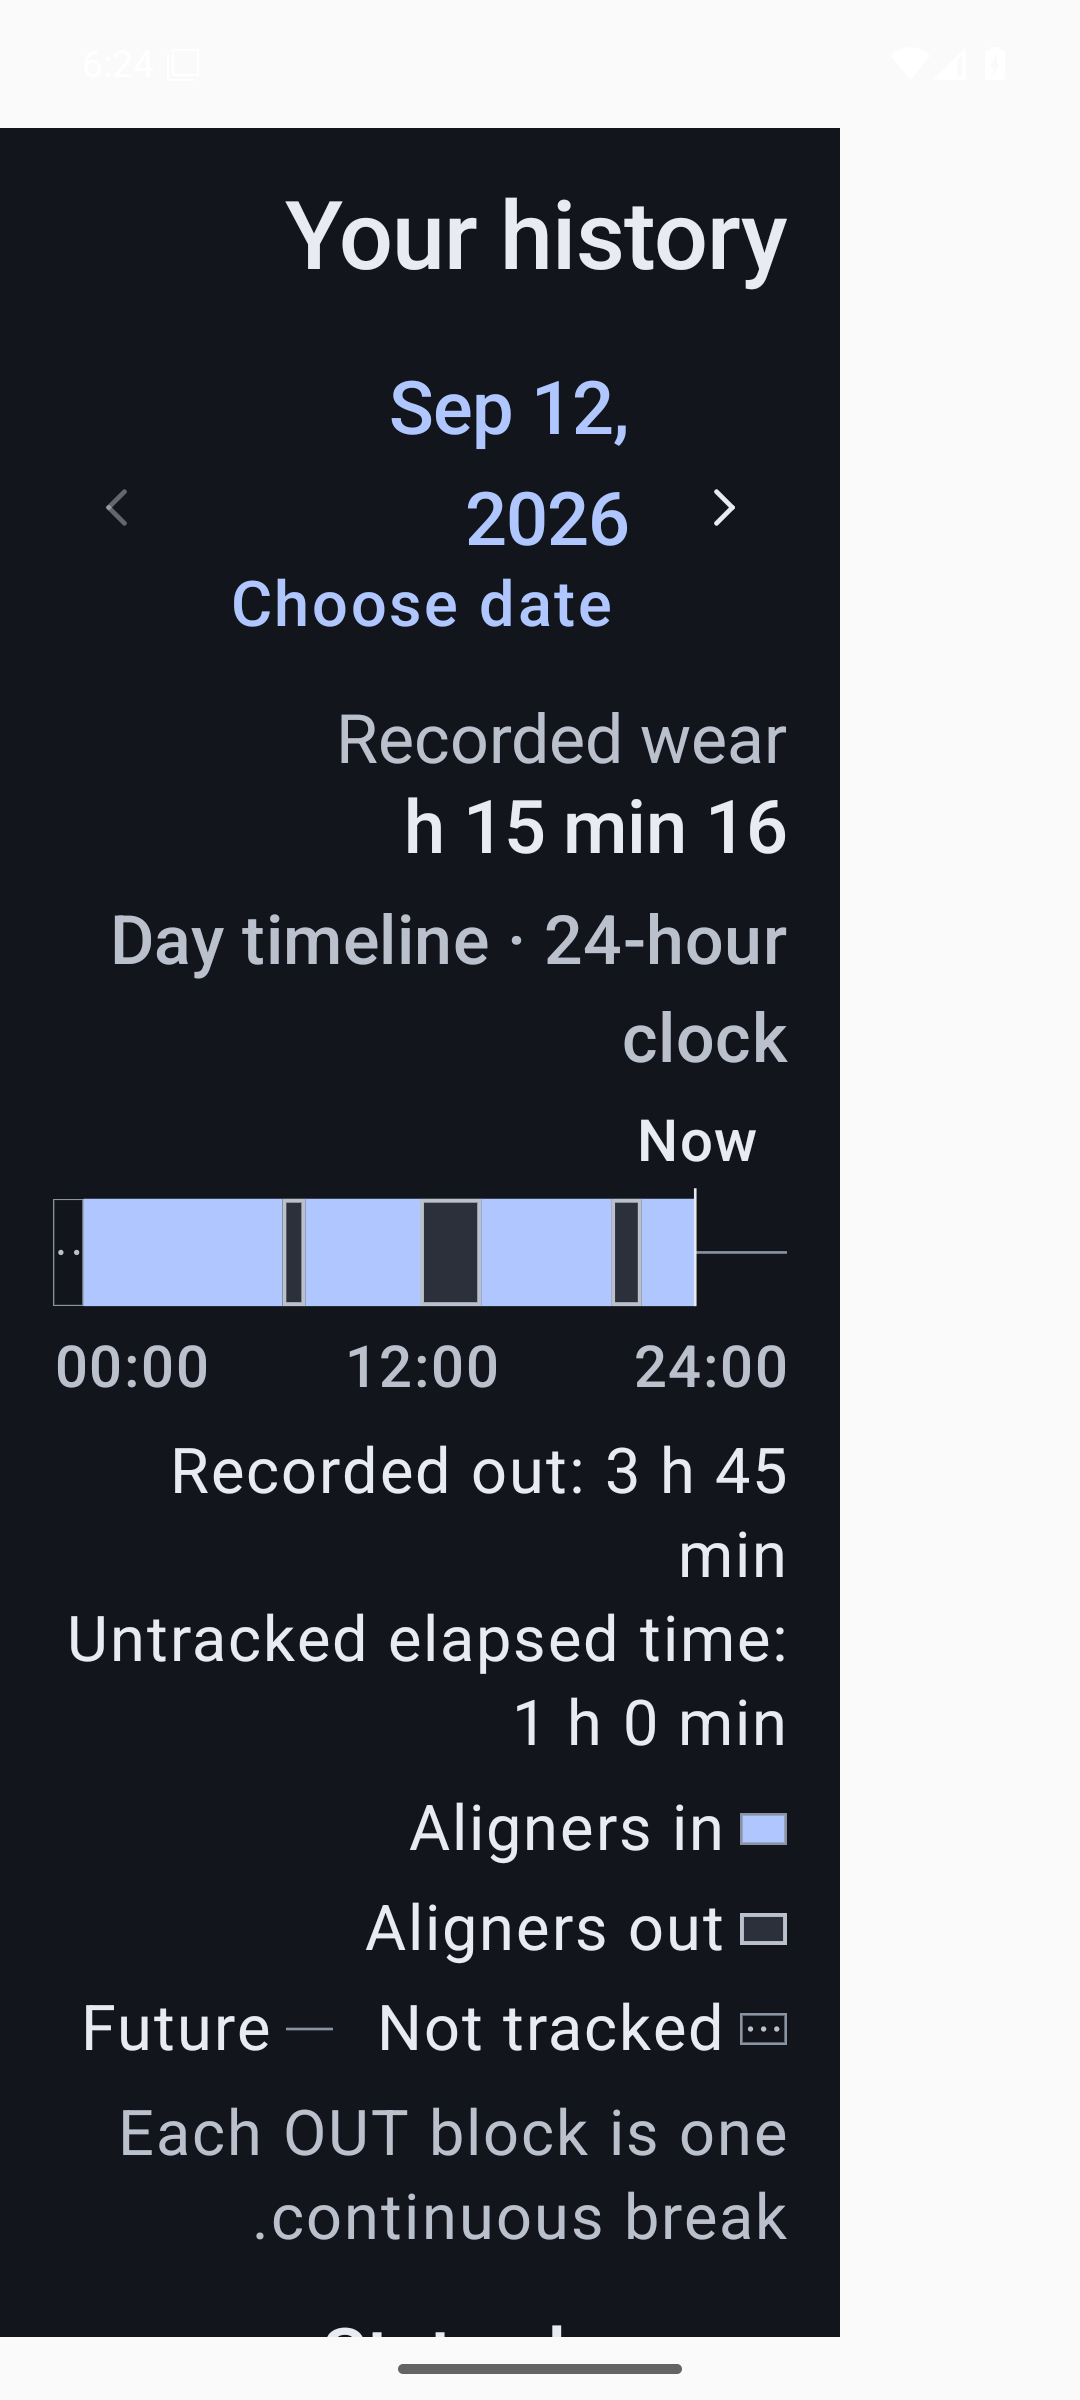
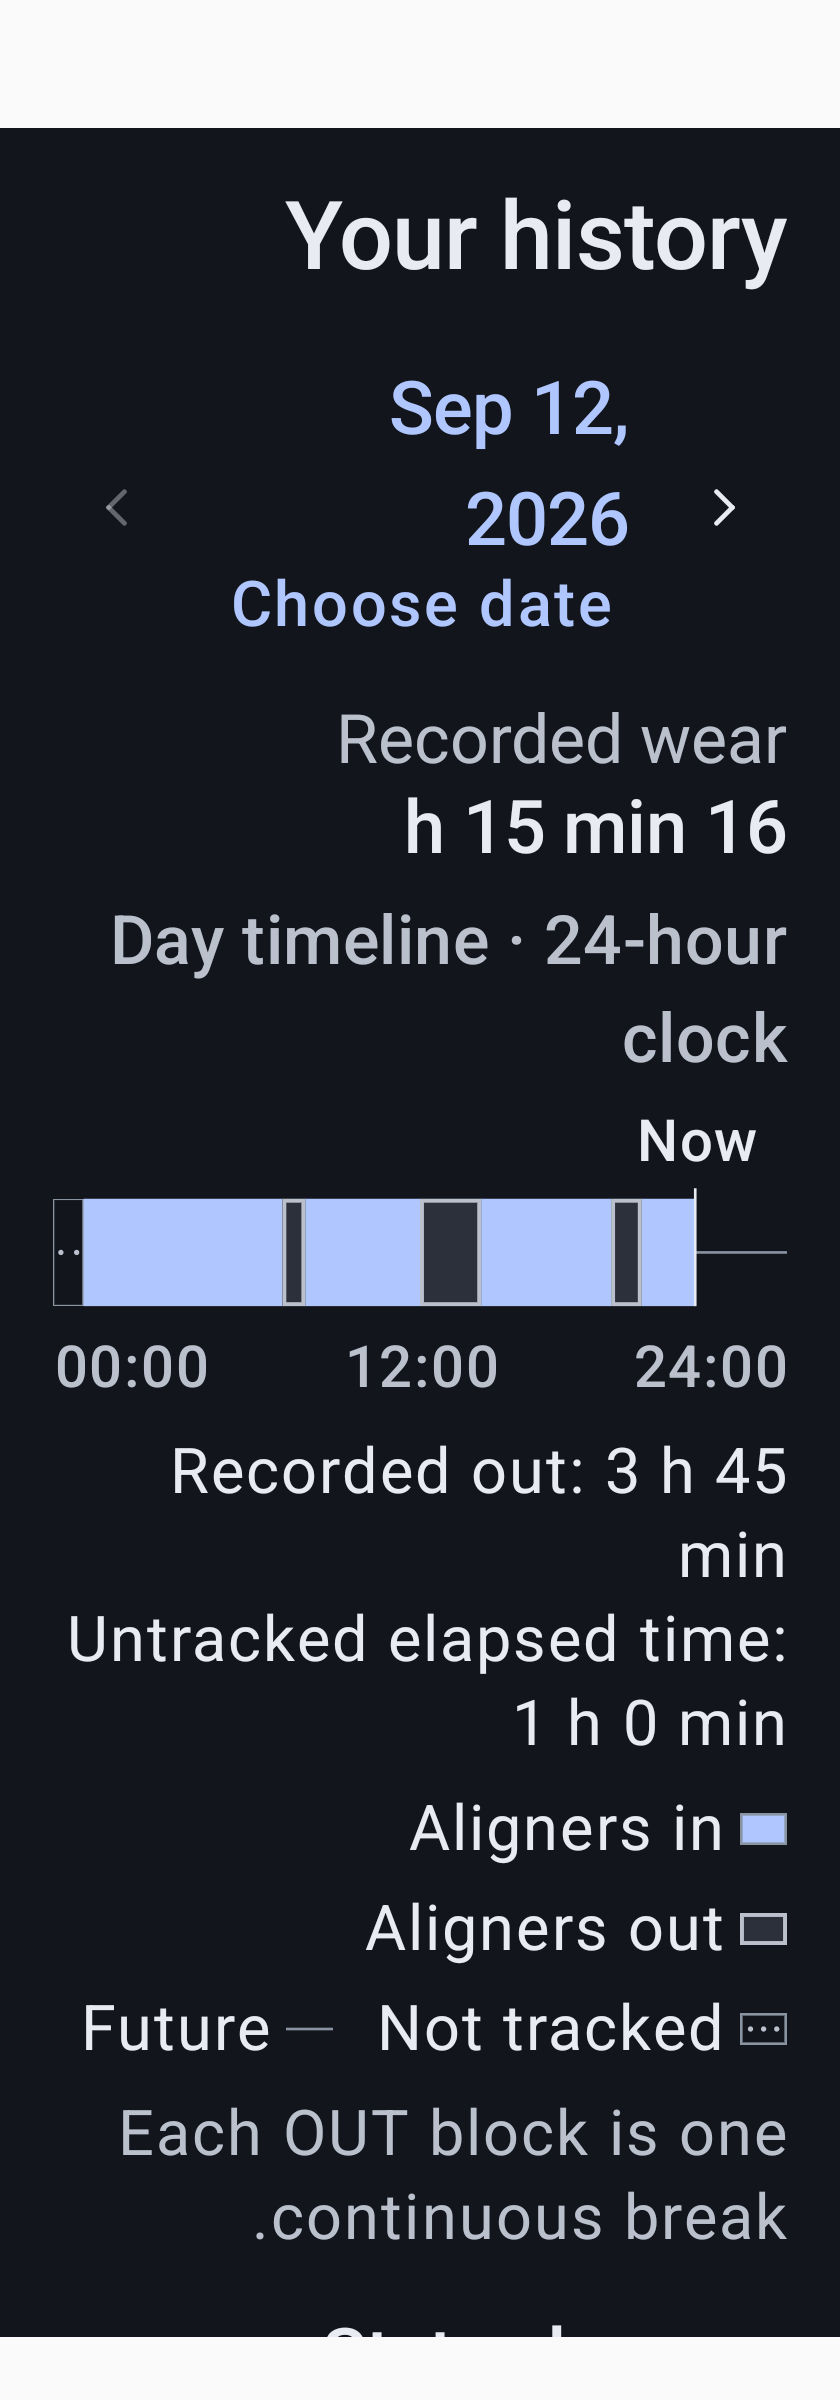
Capture rendered timeline surfaces without launch frames (refs #68)

Changed region(s): [[0.031, 0.0312, 1.0, 1.0], [0.3714, 0.9688, 0.619, 1.0], [0.0929, 0.1875, 0.1548, 0.2188]]

diff --git a/app/src/androidTest/java/org/alignertracker/app/ui/OutTimelineCaptureTest.kt b/app/src/androidTest/java/org/alignertracker/app/ui/OutTimelineCaptureTest.kt
@@ -5,6 +5,7 @@ import androidx.compose.foundation.layout.*
 import androidx.compose.material3.*
 import androidx.compose.runtime.*
 import androidx.compose.ui.Modifier
+import androidx.compose.ui.graphics.asAndroidBitmap
 import androidx.compose.ui.platform.*
 import androidx.compose.ui.semantics.SemanticsProperties
 import androidx.compose.ui.test.*
@@ -117,9 +118,9 @@ class OutTimelineCaptureTest {
         val output =
             File(instrumentation.targetContext.getExternalFilesDir(null), "out-timeline/$name.png")
         output.parentFile!!.mkdirs()
-        instrumentation.waitForIdleSync()
-        android.os.SystemClock.sleep(250)
-        instrumentation.uiAutomation.takeScreenshot().let { bitmap ->
+        compose.waitForIdle()
+        // Read the rendered Compose surface, avoiding an Android launch/splash frame.
+        compose.onRoot().captureToImage().asAndroidBitmap().let { bitmap ->
             output.outputStream().use { bitmap.compress(Bitmap.CompressFormat.PNG, 100, it) }
             bitmap.recycle()
         }

diff --git a/docs/out-timeline.md b/docs/out-timeline.md
@@ -32,7 +32,8 @@ light 13.78:1, dark 11.08:1. These checks support legibility, not comprehension.
 `OutTimelineCaptureTest` renders the actual Today and History screen composables
 with synthetic September 12 records: OUT 07:30–08:15, 12:00–14:00 and 18:15–19:15;
 untracked before 01:00, and future after 21:00. Its matrix includes light/dark,
-320dp/200% text, RTL and no records. Captures are emulator evidence, not photographs
+320dp/200% text, RTL and no records. Captures read the rendered Compose surface directly on the emulator, avoiding Android
+launch/splash frames. They are emulator evidence, not photographs
 of the owner's device or a completed human comprehension test.
 
 Before release, ask the owner/tester to identify the number of breaks, longest break,
